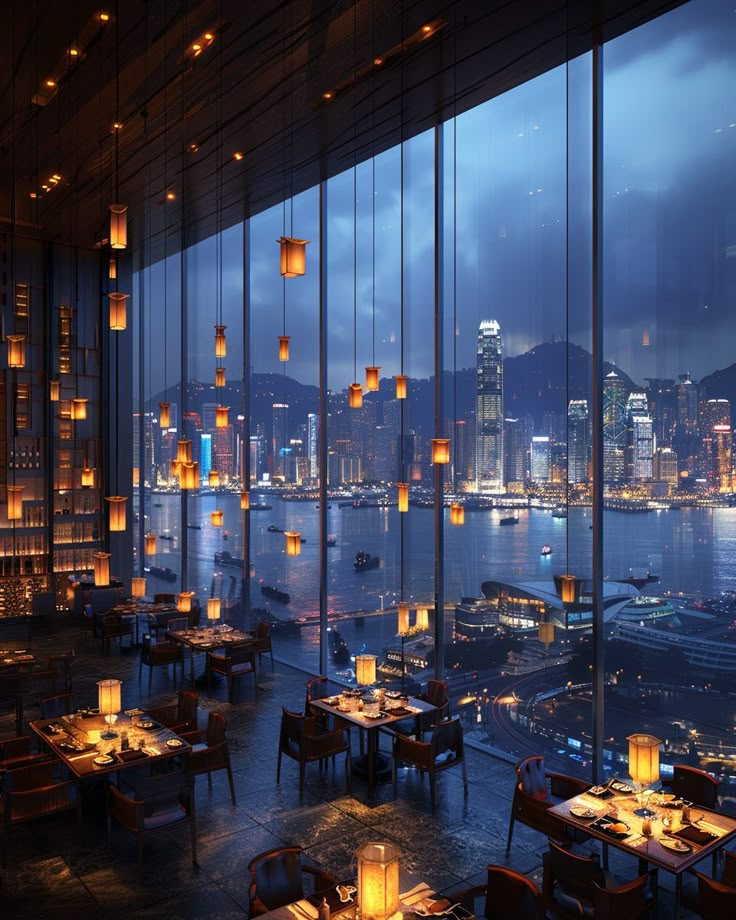
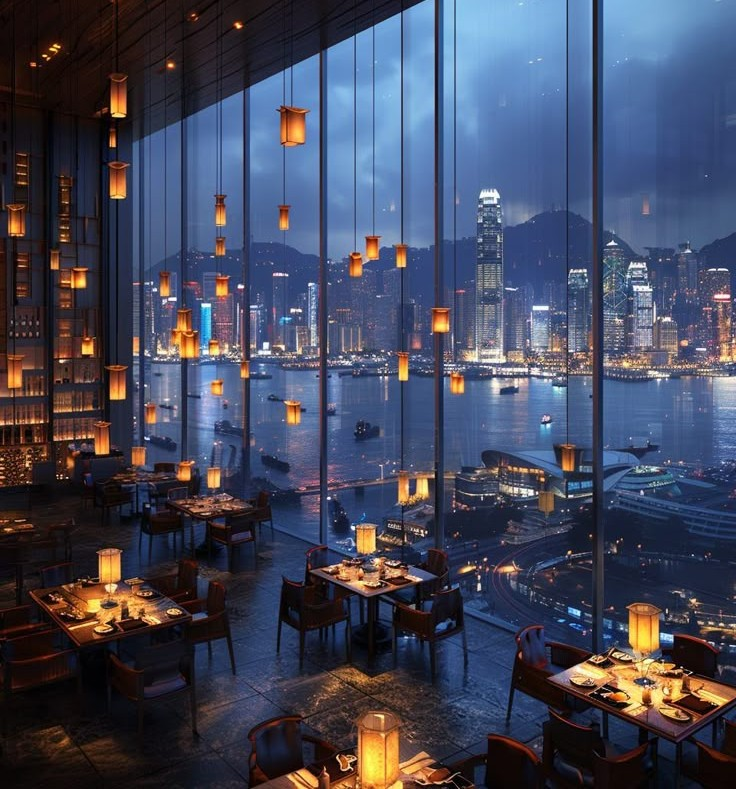
home page
header and navigation bar ready

diff --git a/client/src/components/home.css b/client/src/components/home.css
@@ -1,53 +1,78 @@
-/* General styles */
-body {
-  margin: 0;
-  padding: 0;
-  font-family: 'Segoe UI', Tahoma, Geneva, Verdana, sans-serif;
-  background-color: #3a1f1f;
-  color: #fff;
+
+
+body, html {
+  background-color: #000;
+  font-family: 'Segoe UI', sans-serif;
+  height: 100%;
 }
 
-.hero-section {
-  background-size: cover;
-  background-position: center;
-  background-repeat: no-repeat;
-  height: 100vh;
+/* Wrapper */
+.home-wrapper {
+  min-height: 100vh;
+  background-color: #000;
+  color: white;
+}
+
+/* Navbar styles */
+.navbar {
+  display: flex;
+  justify-content: space-between;
+  align-items: center;
+  padding: 25px 50px;
+  background-color: rgba(0, 0, 0, 0.85);
+  box-shadow: 0 4px 20px rgba(255, 215, 0, 0.1);
+}
+
+/* Logo (calligraphic style) */
+.logo {
+  font-family: 'Great Vibes', cursive;
+  font-size: 30px;
+  color: #ffd700;
+  color: #dfc695;
+
+  
+}
+
+/* Nav links */
+.nav-links a {
+  margin-left: 30px;
+  font-size: 16px;
+  color: #f5f5f5;
+  text-decoration: none;
+  font-weight: 500;
+  transition: color 0.3s ease;
+}
+
+.nav-links a:hover {
+  color: #e3bf82;
+}
+
+/* Main content placeholder */
+.home-content {
   display: flex;
   flex-direction: column;
-  justify-content: center;
   align-items: center;
+  justify-content: center;
+  padding-top: 100px;
   text-align: center;
-  color: #fff;
 }
 
-
-.hero-section h1 {
-  font-size: 3em;
-  font-weight: bold;
-  margin-bottom: 10px;
-  text-shadow: 1px 1px 10px rgba(0, 0, 0, 0.8);
+.home-content h1 {
+  font-family: 'Playfair Display', serif;
+  font-size: 48px;
+  font-weight: 600;
+  color: #e6cfa7;
+  letter-spacing: 1px;
 }
 
-.hero-section p {
-  font-size: 1.2em;
-  max-width: 700px;
-  margin: 0 auto;
-  text-shadow: 1px 1px 6px rgba(0, 0, 0, 0.7);
+.back-link {
+  color: #e6cfa7;
+  margin-top: 20px;
+  text-decoration: none;
+  font-size: 16px;
 }
 
-.hero-section button {
-  margin-top: 30px;
-  padding: 12px 30px;
-  background-color: #eac17b;
-  color: #000;
-  font-weight: bold;
-  border: none;
-  border-radius: 4px;
-  font-size: 1em;
-  cursor: pointer;
-  transition: background-color 0.3s ease;
-}
-
-.hero-section button:hover {
-  background-color: #ffd28f;
+.back-link:hover {
+  text-decoration: underline;
+  color: white;
 }

diff --git a/client/src/components/Home.js b/client/src/components/Home.js
@@ -1,21 +1,25 @@
-import React from "react";
-import "./home.css";
-import { Link } from "react-router-dom";
+import React from 'react';
+import './home.css';
+import { Link } from 'react-router-dom';
 
-const Home = () => {
+function Home() {
   return (
-    <div
-      className="hero-section"
-      style={{
-        backgroundImage: `url(${process.env.PUBLIC_URL}/frontpic.png)`,
-      }}
-    >
-      <h1>Welcome to the Restaurant POS System</h1>
-      <Link to="/login" style={{ color: "white", marginTop: "20px" }}>
-        Back to Login
-      </Link>
+    <div className="home-wrapper">
+      <header className="navbar">
+        <div className="logo">Sweet Heaven</div>
+        <nav className="nav-links">
+          <a href="#">View Menu</a>
+          <a href="#">Book Table</a>
+          <a href="#">Place Order</a>
+        </nav>
+      </header>
+
+      <main className="home-content">
+        <h1>Welcome to Sweet Heaven</h1>
+        <Link to="/login" className="back-link">Back to Login</Link>
+      </main>
     </div>
   );
-};
+}
 
 export default Home;

diff --git a/client/src/components/Login.js b/client/src/components/Login.js
@@ -12,7 +12,7 @@ const Login = () => {
     e.preventDefault();
 
     const users = [
-      { email: "@example.com", password: "password123" },
+      { email: "cynthia@example.com", password: "password123" },
       { email: "admin@example.com", password: "adminpass" },
     ];
 
@@ -35,6 +35,7 @@ const Login = () => {
         backgroundAttachment: "fixed",
         minHeight: "100vh",
       }}
+      
     >
       <div className="login-container">
         <h2>Welcome to Sweet Heaven</h2>
@@ -57,7 +58,7 @@ const Login = () => {
             onChange={(e) => setPassword(e.target.value)}
             required
           />
-          <button type="submit"cynthia>Login</button>
+          <button type="submit">Login</button>
         </form>
 
         <p>
@@ -73,3 +74,5 @@ const Login = () => {
 };
 
 export default Login;
+
+

diff --git a/client/src/components/login.css b/client/src/components/login.css
@@ -1,16 +1,28 @@
 
-/* Glass-effect login card */
+
+html, body {
+  background-color: #000000;
+  height: 100%;
+}
+
 .login-container {
   background-color: rgba(0, 0, 0, 0.5);
   backdrop-filter: blur(12px);
   padding: 40px;
   border-radius: 20px;
+  width: 100%;
   max-width: 400px;
-  margin: 100px auto;
   text-align: center;
-  box-shadow: 0 0 35px rgba(255, 215, 0, 0.25); /* Soft gold glow */
+  box-shadow: 0 0 35px rgba(255, 215, 0, 0.25);
   color: #ffffff;
+
+  /* 👇 Centering magic */
+  position: absolute;
+  top: 50%;
+  left: 50%;
+  transform: translate(-50%, -50%);
 }
+
 
 /* Title */
 .login-container h2 {

diff --git a/client/public/index.html b/client/public/index.html
@@ -1,6 +1,8 @@
 <!DOCTYPE html>
 <html lang="en">
   <head>
+    <link href="https://fonts.googleapis.com/css2?family=Great+Vibes&display=swap" rel="stylesheet">
+    <link href="https://fonts.googleapis.com/css2?family=Playfair+Display:wght@600&display=swap" rel="stylesheet">
     <meta charset="utf-8" />
     <link rel="icon" href="%PUBLIC_URL%/favicon.ico" />
     <meta name="viewport" content="width=device-width, initial-scale=1" />

diff --git a/client/src/App.css b/client/src/App.css
@@ -1,3 +1,8 @@
+
+#root {
+  background-color: transparent;
+}
+
 .App {
   text-align: center;
 }
